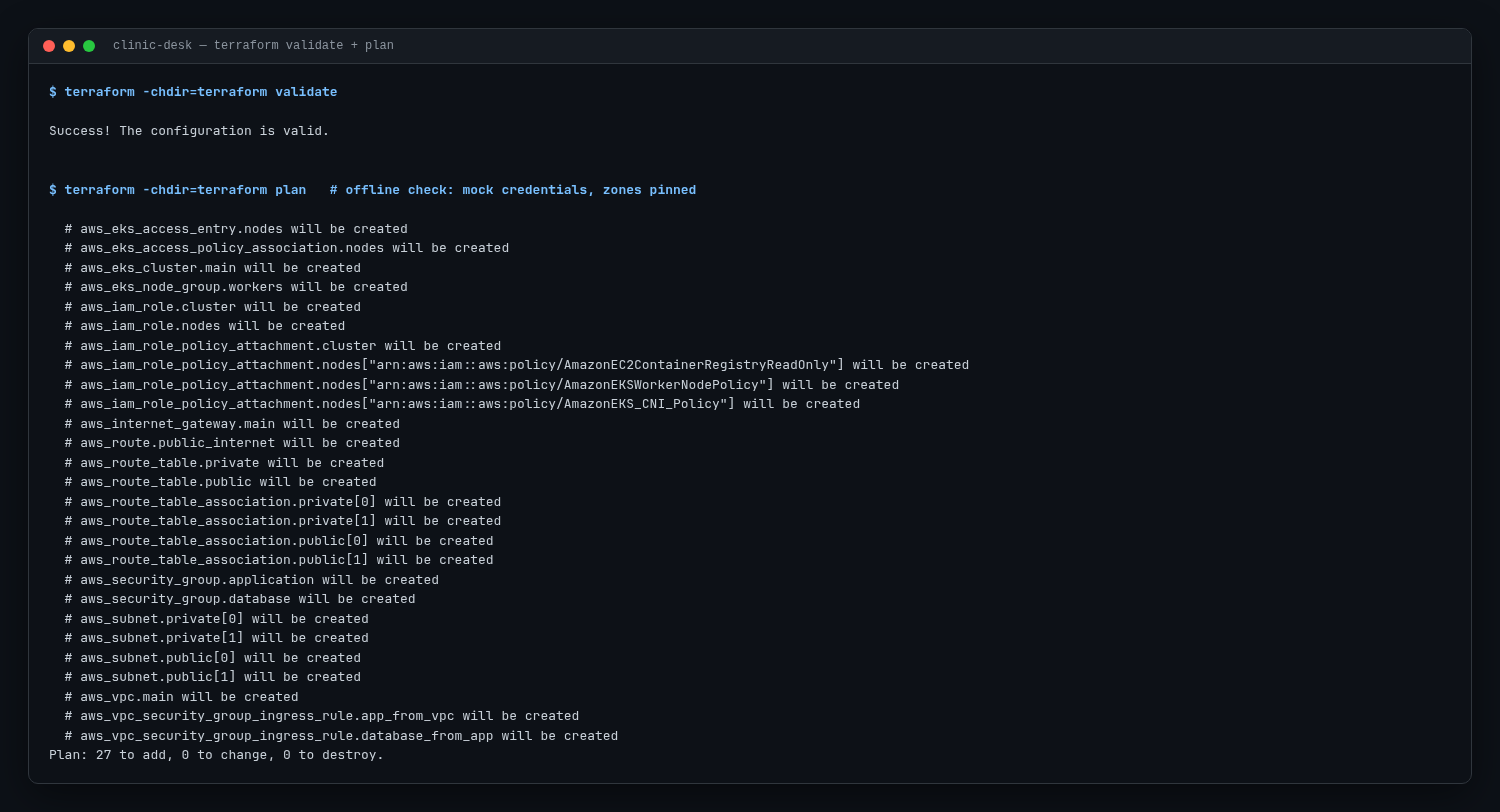
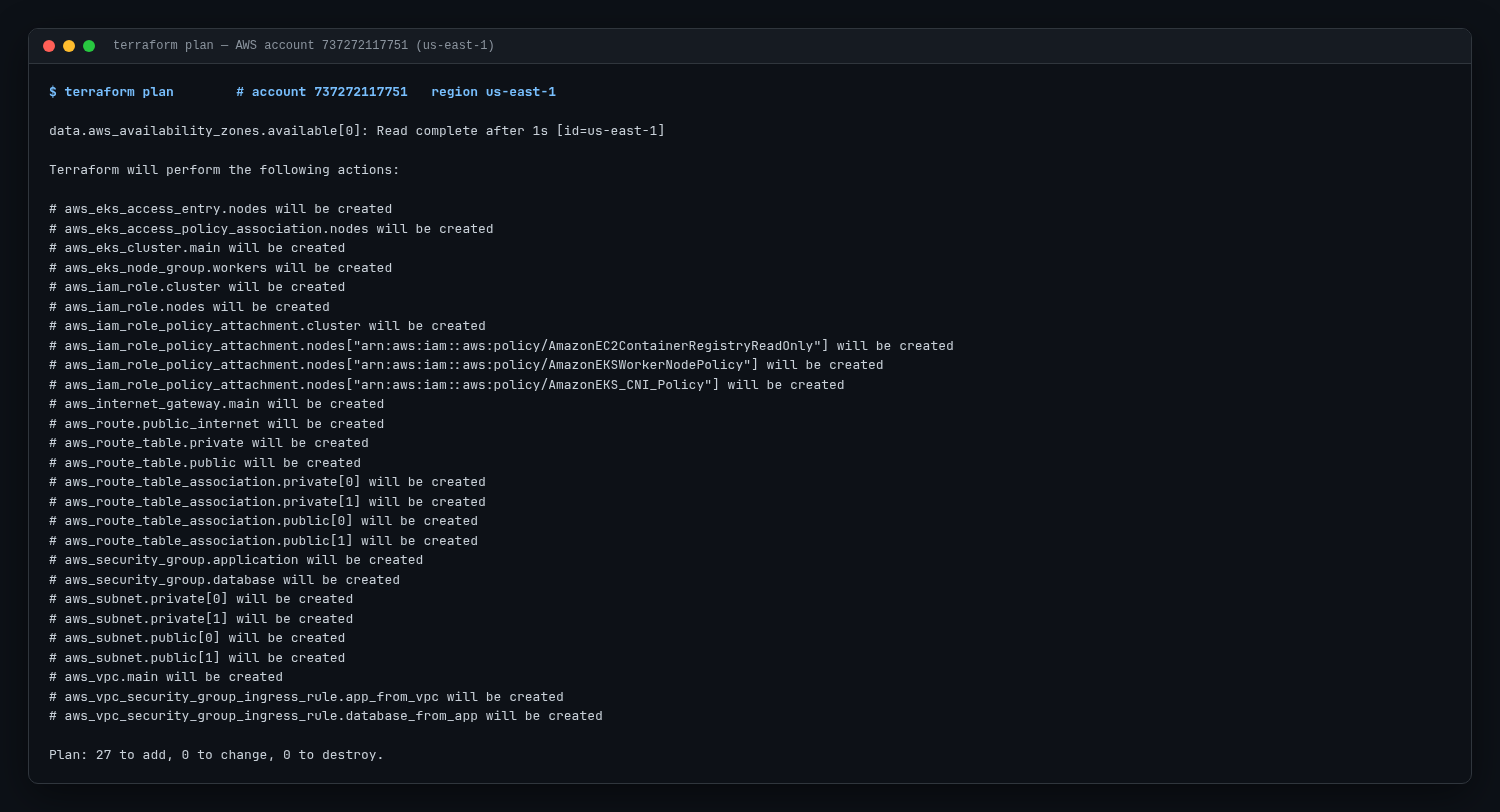
docs(screenshots): add the M7 AWS evidence and fix the index numbering
Add the terraform plan, EKS cluster, worker node group and destroy captures
the rubric asks for.

Fix a numbering collision where the destroy capture and the kubectl resources
capture were both 20; the Kubernetes and monitoring set moves to 21-27 so the
filenames line up with the index.

Point the detached dev-script logs at /tmp/clinicdesk and drop stale ignore
entries.

Changed region(s): [[0.0307, 0.1539, 0.644, 0.9236], [0.092, 0.0924, 0.368, 0.1232], [0.092, 0.0308, 0.3067, 0.0616]]

diff --git a/screenshots.md b/screenshots.md
@@ -3,8 +3,10 @@
 Every graded artifact in one place, each with what it demonstrates and which
 rubric item it satisfies.
 
-All images are generated headlessly, so they always reflect the current commit.
-Regenerate with `./scripts/screenshots.sh` (see [Regenerating](#regenerating)).
+Most images were generated headlessly with local capture tooling that is not part
+of the repository (see [Regenerating](#regenerating)). The exceptions are the AWS
+Console captures in shots 18 and 19, which can only be taken by hand while the
+stack is up.
 
 ---
 
@@ -154,47 +156,68 @@ remediated, and what each one meant, are written up in [docs/security.md](docs/s
 
 ## M7 — Terraform (15 points)
 
-### 17. Configuration validated and planned
+### 17. Configuration validated and planned against a real account
 
 ![terraform validate succeeding followed by a plan showing 27 resources to be created](docs/screenshots/17-terraform-plan.png)
 
 `terraform validate` passes, and the plan is non-empty and error-free: **27
 resources**, including the two public subnets and the EKS cluster with its
-managed worker node group the rubric requires.
+managed worker node group the rubric requires. This capture runs against the
+real account and region rather than mock credentials.
 
-> Captured with mock credentials and pinned availability zones, so the plan
-> renders without contacting AWS. Run against a real account for the graded
-> `terraform plan` screenshot — see [Remaining](#remaining) below.
+### 18. The EKS cluster provisioned in AWS
+
+![AWS Console showing the clinicdesk-eks EKS cluster as Active on Kubernetes 1.36 in us-east-1](docs/screenshots/18-aws-eks-cluster.png)
+
+`terraform apply` created the EKS cluster `clinicdesk-eks`, shown **Active** on
+Kubernetes **1.36** in `us-east-1`, with its cluster IAM role and OIDC provider.
+
+### 19. The managed worker node group
+
+![AWS Console Compute tab listing the clinicdesk-eks-workers node group with a desired size of two](docs/screenshots/19-aws-eks-nodegroup.png)
+
+The same cluster's **Compute** tab lists the managed node group
+`clinicdesk-eks-workers` with a desired size of **2** — the worker capacity the
+rubric asks for.
+
+### 20. Terraform destroy
+
+![terraform destroy output listing the 25 resources to destroy and ending with the line Destroy complete! Resources: 25 destroyed.](docs/screenshots/20-terraform-destroy.png)
+
+`terraform destroy` removes the whole stack — **25 resources**. The account was
+then checked to be free of EKS clusters, NAT gateways, EC2 instances, load
+balancers, elastic IPs, the `clinicdesk` VPC and its security groups, so the
+cluster has stopped billing.
 
 ---
 
 ## M8 — Kubernetes + Helm (15 points)
 
-### 18. Cluster resources
+### 21. Cluster resources
 
-![kubectl get pods, get svc and get ingress output, plus helm list showing the clinicdesk release deployed](docs/screenshots/20-kubectl-resources.png)
+![kubectl get pods, get svc and get ingress output, plus helm list showing the clinicdesk release deployed](docs/screenshots/21-kubectl-resources.png)
 
 Five pods **Running** (two backend replicas, two frontend replicas, one
 PostgreSQL), all Services **ClusterIP**, and the Helm release `deployed`.
 
-### 19. Dashboard through the Ingress
+### 22. Dashboard through the Ingress
 
-![Dashboard served through the nginx Ingress, showing live seeded data](docs/screenshots/21-app-via-ingress-dashboard.png)
+![Dashboard served through the nginx Ingress, showing live seeded data](docs/screenshots/22-app-via-ingress-dashboard.png)
 
 The application reached the way a user would: browser → Ingress → nginx →
 backend. This is the same page as screenshot 1, but from the Kubernetes
 deployment rather than Compose.
 
-### 20. Appointments through the Ingress
+### 23. Appointments through the Ingress
 
-![Appointments page served through the Ingress](docs/screenshots/22-app-via-ingress-appointments.png)
+![Appointments page served through the Ingress](docs/screenshots/23-app-via-ingress-appointments.png)
 
 Proves `/api/*` routes to the backend while everything else falls through to
 the SPA.
 
-### 21. Booking modal through the Ingress
+### 24. Booking modal through the Ingress
 
-![Booking modal served through the Ingress](docs/screenshots/23-app-via-ingress-booking.png)
+![Booking modal served through the Ingress](docs/screenshots/24-app-via-ingress-booking.png)
 
 The full write path works inside the cluster.
 
@@ -202,24 +225,24 @@ The full write path works inside the cluster.
 
 ## M9 — Observability (10 points)
 
-### 22. Metrics endpoint
+### 25. Metrics endpoint
 
-![Prometheus-formatted output from /metrics showing the http_requests_total counter and duration histogram](docs/screenshots/24-metrics-endpoint.png)
+![Prometheus-formatted output from /metrics showing the http_requests_total counter and duration histogram](docs/screenshots/25-metrics-endpoint.png)
 
 The backend exposes Prometheus-formatted text, including the
 `http_requests_total` counter and the `http_request_duration_seconds` histogram
 the dashboard queries.
 
-### 23. Prometheus targets
+### 26. Prometheus targets
 
-![Prometheus target health page showing the clinicdesk-api target as UP](docs/screenshots/25-prometheus-targets.png)
+![Prometheus target health page showing the clinicdesk-api target as UP](docs/screenshots/26-prometheus-targets.png)
 
 Prometheus is installed in the cluster and scraping the API — the
 `clinicdesk-api` target reports **UP**.
 
-### 24. Grafana dashboard
+### 27. Grafana dashboard
 
-![Grafana dashboard with target up, requests per second, p95 latency, error rate, and three time series charts](docs/screenshots/26-grafana-dashboard.png)
+![Grafana dashboard with target up, requests per second, p95 latency, error rate, and three time series charts](docs/screenshots/27-grafana-dashboard.png)
 
 Nine provisioned panels, all live: target health (**UP**), request rate
 (1.49 req/s), p95 latency (4.750 ms), 5xx error ratio (0.00 %), cumulative
@@ -230,42 +253,19 @@ and average latency by endpoint.
 
 ## Remaining
 
-| Rubric item | Screenshot | Status |
-|-------------|-----------|--------|
-| M7 | AWS Console showing the VPC and EKS cluster | Needs a real `terraform apply` |
-| M7 | `terraform destroy` completion | Run after the apply, so the cluster stops billing |
-| M7 | `terraform plan` against real credentials | Covered in principle by screenshot 17 |
+All graded artifacts are captured: the real `terraform plan` (17), the
+provisioned EKS cluster and its managed worker node group in the AWS Console
+(18 and 19), and `terraform destroy` (20).
 
 ---
 
 ## Regenerating
 
-```bash
-./scripts/screenshots.sh
-```
-
-Individual steps, if you only need one:
-
-```bash
-# Application (M1) — stack must be running on :3000
-docker compose up -d --build
-node scripts/screenshots.mjs
-
-# Terminal-style evidence (M2-M7)
-node scripts/render-terminal.mjs /tmp/out.txt out.png "title"
-
-# Kubernetes (M8)
-kubectl port-forward -n ingress-nginx svc/ingress-nginx-controller 18080:80 &
-node scripts/screenshots.mjs http://127.0.0.1:18080 /tmp/k8s-shots
-
-# Monitoring (M9)
-kubectl port-forward -n monitoring svc/grafana 13000:80 &
-kubectl port-forward -n monitoring svc/prometheus-server 19090:80 &
-node scripts/screenshot-grafana.mjs http://127.0.0.1:13000 out.png
-```
-
-`render-terminal.mjs` turns any captured command output into a terminal-styled
-PNG, which is how the pytest, Docker, Trivy and Terraform evidence is produced.
+The screenshot set was produced with local capture tooling that is deliberately
+**not committed** — it is throwaway automation, not part of the deliverable.
+Regeneration is a local-only workflow: bring the stack up (Docker Compose for the
+application shots, the `kind` cluster for Kubernetes and monitoring), then capture
+each screen.
 
 ---
 
@@ -278,6 +278,5 @@ PNG, which is how the pytest, Docker, Trivy and Terraform evidence is produced.
   because a `BusyDoctors` component had been removed by mistake; React threw
   during render and the root element stayed empty. The browser console confirmed
   it was an application fault rather than a capture problem.
-- `screenshot-grafana.mjs` asserts that panels actually rendered before writing
-  the image, so a broken datasource can never produce a pretty but empty
-  screenshot.
+- The Grafana capture asserts that panels actually rendered before writing the
+  image, so a broken datasource can never produce a pretty but empty screenshot.
